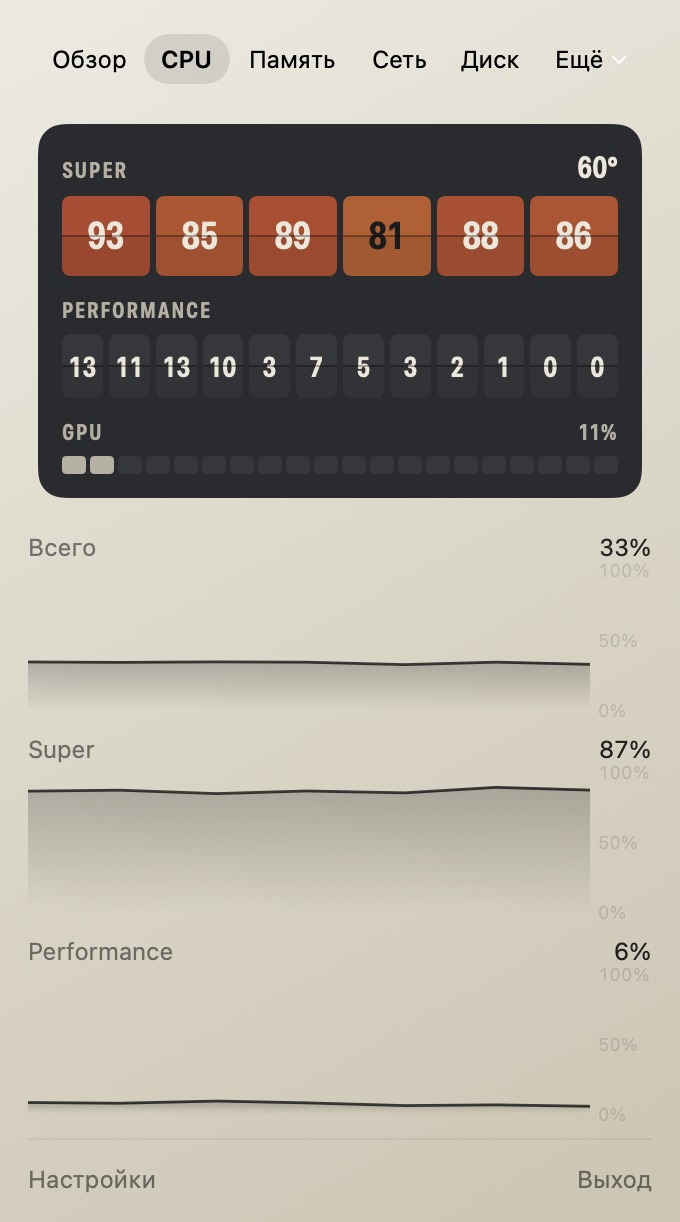
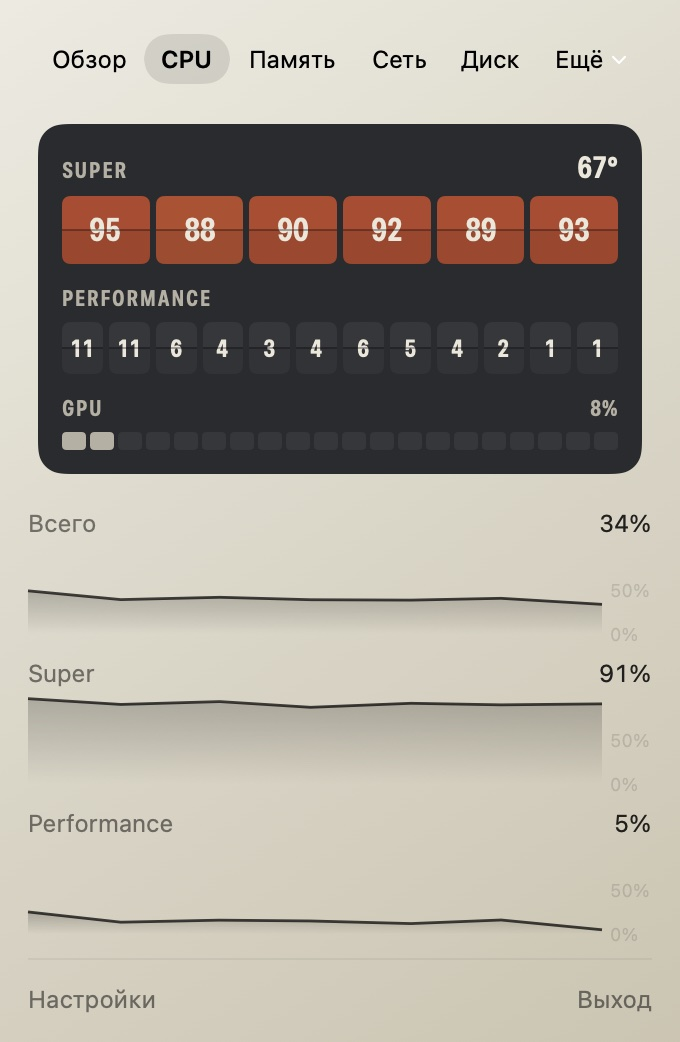
fix: drop the crowded top axis label on short charts, legible heat text in light mode
- short history charts (CPU tab) label only 0% and 50%; the 100% label sat
  right under the current value
- heat-coloured text (sensor temperatures, elevated memory pressure) darkens
  amber and ember by half in light mode, where they were ~1.7:1 on light glass
- site: refreshed CPU and Sensors renders

Claude-Session: https://claude.ai/code/session_01SpPiroCcjeHeMD6mPeMC9q

diff --git a/Sources/StatusApp/Popover/Components/HeatColor+SwiftUI.swift b/Sources/StatusApp/Popover/Components/HeatColor+SwiftUI.swift
@@ -1,3 +1,4 @@
+import AppKit
 import MetricsCore
 import SwiftUI
 
@@ -8,6 +9,18 @@ extension HeatColor {
         case .cold: Color.primary.opacity(0.12)
         case let .rgb(r, g, b): Color(.sRGB, red: r, green: g, blue: b)
         }
+    }
+
+    /// Цвет шкалы для текста. Светлые ступени (янтарь, угли) в светлой теме затемняются вдвое —
+    /// иначе на светлом стекле они не читаются; «жар» и тёмная тема остаются как есть.
+    var textColor: Color {
+        guard case let .rgb(r, g, b) = self else { return .primary }
+        guard 0.2126 * r + 0.7152 * g + 0.0722 * b > 0.45 else { return swiftUIColor }
+        return Color(nsColor: NSColor(name: nil) { appearance in
+            let dark = appearance.bestMatch(from: [.aqua, .darkAqua]) == .darkAqua
+            let k = dark ? 1.0 : 0.5
+            return NSColor(srgbRed: r * k, green: g * k, blue: b * k, alpha: 1)
+        })
     }
 }
 

diff --git a/Sources/StatusApp/Popover/Components/HistoryChart.swift b/Sources/StatusApp/Popover/Components/HistoryChart.swift
@@ -33,8 +33,11 @@ struct HistoryChart: View {
             .chartXAxis(.hidden)
             .chartYAxis {
                 if let yDomain {
+                    // На низком графике верхняя подпись упирается в значение над ним — оставляем 0 и середину.
+                    let mid = (yDomain.lowerBound + yDomain.upperBound) / 2
                     AxisMarks(position: .trailing,
-                              values: [yDomain.lowerBound, (yDomain.lowerBound + yDomain.upperBound) / 2, yDomain.upperBound]) {
+                              values: chartHeight < 60 ? [yDomain.lowerBound, mid]
+                                                       : [yDomain.lowerBound, mid, yDomain.upperBound]) {
                         label($0)
                     }
                 } else {

diff --git a/site/index.html b/site/index.html
@@ -826,7 +826,7 @@ footer .wrap { display: flex; flex-wrap: wrap; justify-content: space-between; g
   }
 
   /* ---------- Язык ---------- */
-  const shots = { overview: [680, 740], cpu: [680, 1222], memory: [680, 616], network: [680, 608], disk: [680, 550], sensors: [680, 926] };
+  const shots = { overview: [680, 740], cpu: [680, 1042], memory: [680, 616], network: [680, 608], disk: [680, 550], sensors: [680, 1216] };
   const tabNameKey = { overview: "tOverview", cpu: null, memory: "tMemory", network: "tNetwork", disk: "tDisk", sensors: "tSensors" };
   const descKey = { overview: "dOverview", cpu: "dCpu", memory: "dMemory", network: "dNetwork", disk: "dDisk", sensors: "dSensors" };
   let lang = "ru", current = "overview";

diff --git a/Sources/StatusApp/Popover/Tabs/SensorsTab.swift b/Sources/StatusApp/Popover/Tabs/SensorsTab.swift
@@ -61,7 +61,7 @@ struct SensorsTab: View {
     /// Температура окрашивается ступенчато по шкале нагрева; нейтральная — основным цветом.
     private static func tint(_ celsius: Double) -> Color {
         let level = HeatScale.temperatureLevel(celsius)
-        return level == .neutral ? .primary : level.color.swiftUIColor
+        return level == .neutral ? .primary : level.color.textColor
     }
 
     private func cpuRow(_ groups: SensorGroups) -> some View {

diff --git a/Sources/StatusApp/Popover/Tabs/MemoryTab.swift b/Sources/StatusApp/Popover/Tabs/MemoryTab.swift
@@ -36,7 +36,7 @@ struct MemoryTab: View {
 
     private func pressureColor(_ pressure: MemoryPressure?) -> Color {
         switch pressure {
-        case .warning: HeatScale.amber.swiftUIColor
+        case .warning: HeatScale.amber.textColor
         case .critical: .heatHot
         default: .primary
         }
